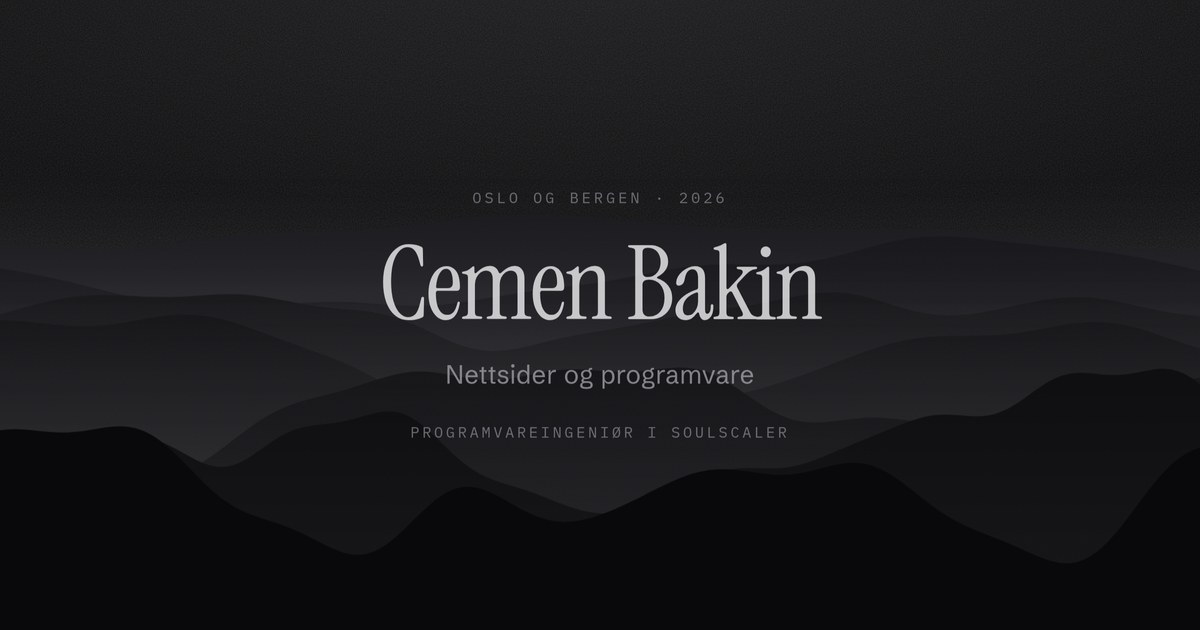
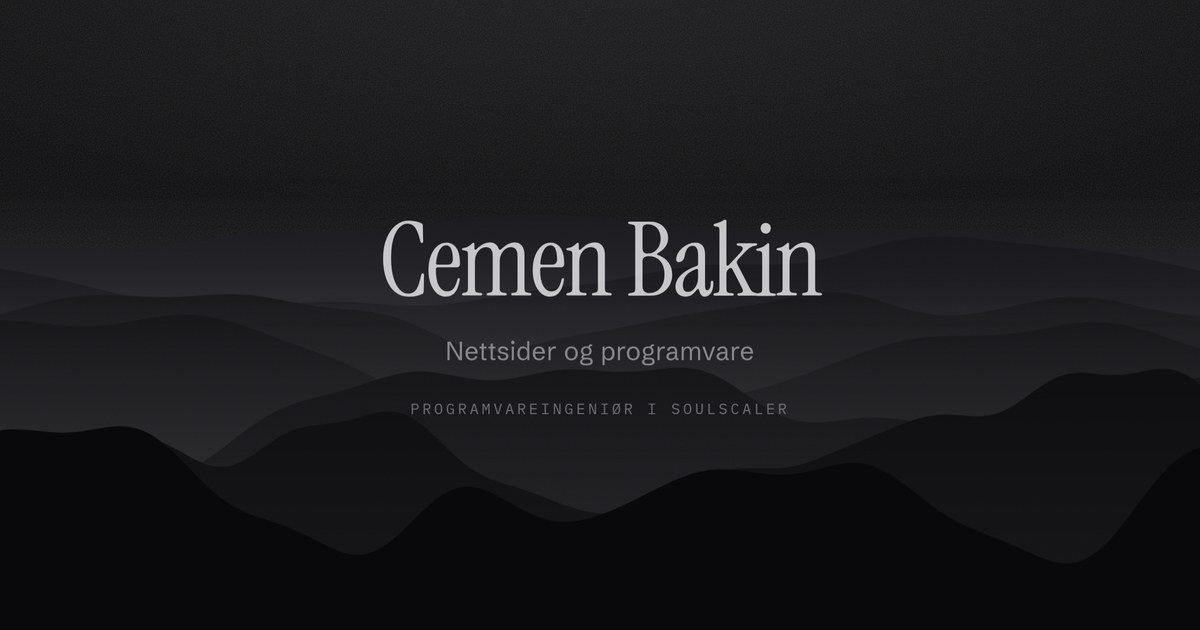
Drop the place-and-year line, and stop fading the page in
The hero's "Oslo og Bergen · 2026" is gone at the owner's request. It dated the
page, and the closing field on every page already carries Oslo & Bergen, so
nothing is lost with it. The share card is regenerated to match.

While checking the result I measured the rendered colour of the name instead of
judging it by eye, and it came back 62 where --ink is 10. The cause was not a
contrast bug: page-in fades from opacity: 0, and the screenshot caught it in
flight. But that is the very thing this stylesheet says it never does — the
panel reveal and the introduction lines animate transform only, precisely so an
animation stalled at its first frame cannot leave content present, laid out and
invisible. page-in ran on main and the whole hero, the largest elements on the
site, and was the one place that broke the rule. It is transform-only now, and
the name measures 9 from the first frame.

The 404 borrowed .affil for its explanation, which sets a two-line sentence in
mono capitals meant for a short credential. It is prose now, and ends in a full
stop.

Assets go to ?v=7.

Claude-Session: https://claude.ai/code/session_01LBvnnooDQnw55ZL5n6kTya

diff --git a/index.html b/index.html
@@ -22,7 +22,7 @@
 <link rel="preconnect" href="https://fonts.googleapis.com">
 <link rel="preconnect" href="https://fonts.gstatic.com" crossorigin>
 <link rel="stylesheet" href="https://fonts.googleapis.com/css2?family=Instrument+Serif:ital@0;1&family=Schibsted+Grotesk:wght@400;500;600;700&family=IBM+Plex+Mono:wght@400;500&display=swap">
-<link rel="stylesheet" href="styles.css?v=6">
+<link rel="stylesheet" href="styles.css?v=7">
 <style>@view-transition { navigation: auto; }</style>
 </head>
 <body>
@@ -55,15 +55,15 @@
   </div>
 </header>
 
-<!-- The opening is a field, not a card: near-black, a single serif line, and
-     the quiet credential row along the bottom. Nothing here is a control
-     except the cue, and nothing moves. -->
+<!-- The opening is a field, not a card: near-black, the name, and the two
+     lines that say what he does and who for. The place-and-year line that used
+     to sit above the name is gone — it dated the page, and the closing field
+     already carries "Oslo & Bergen". Nothing here is a control except the cue. -->
 <section class="hero" id="top">
   <!-- Seven ridges, because Bergen is the city between the seven mountains.
        Drawn in canvas rather than photographed: nothing here is stock. -->
   <canvas class="ridge" aria-hidden="true"></canvas>
   <div class="hero-in">
-    <p class="eyebrow"><span lang="en">Oslo &amp; Bergen · 2026</span><span lang="nb">Oslo og Bergen · 2026</span></p>
     <h1>Cemen&nbsp;Bakin</h1>
     <p class="role" lang="en">Websites &amp; software</p>
     <p class="role" lang="nb">Nettsider og programvare</p>
@@ -175,7 +175,7 @@
 
 </div><!-- /.sheet -->
 
-<script src="hero.js?v=6" defer></script>
-<script src="main.js?v=6" defer></script>
+<script src="hero.js?v=7" defer></script>
+<script src="main.js?v=7" defer></script>
 </body>
 </html>

diff --git a/styles.css b/styles.css
@@ -354,6 +354,16 @@ h1 {
 .affil a:hover { color: var(--ink); border-bottom-color: var(--ink-3); }
 @media (prefers-reduced-motion: reduce) { .affil a { transition: none; } }
 
+/* The 404 borrows .affil for its explanation, but that line is a sentence, not
+   a credential: mono caps that read well as "PROGRAMVAREINGENIØR I SOULSCALER"
+   turn a two-line sentence into work. Same size and weight in the page, set as
+   prose. */
+.affil.plain {
+  font: 400 .95rem/1.55 var(--sans);
+  letter-spacing: 0;
+  text-transform: none;
+}
+
 /* Nothing but the cue lives down here now, so it sits on the centre line
    under the name rather than off in a corner on its own. */
 .hero-foot {
@@ -383,8 +393,14 @@ h1 {
    everywhere else. No fill mode: if the animation never runs, the content is
    simply there — the same rule the panel reveal learned the hard way. */
 
+/* Transform only, never opacity — the same rule the panel reveal and the
+   introduction lines already keep, and this was the one place that broke it.
+   It ran on `main` and the whole hero, so a first frame that stalls would have
+   left the entire page present, laid out, and invisible, with no error
+   anywhere. That is the bug this rule exists because of; it had simply been
+   applied everywhere except the largest element on the site. */
 @keyframes page-in {
-  from { opacity: 0; transform: translateY(10px); }
+  from { transform: translateY(10px); }
 }
 main, .hero-in, .hero-foot {
   animation: page-in .55s cubic-bezier(.22, .61, .36, 1);

diff --git a/404.html b/404.html
@@ -11,7 +11,7 @@
 <link rel="preconnect" href="https://fonts.googleapis.com">
 <link rel="preconnect" href="https://fonts.gstatic.com" crossorigin>
 <link rel="stylesheet" href="https://fonts.googleapis.com/css2?family=Instrument+Serif:ital@0;1&family=Schibsted+Grotesk:wght@400;500;600;700&family=IBM+Plex+Mono:wght@400;500&display=swap">
-<link rel="stylesheet" href="/styles.css?v=6">
+<link rel="stylesheet" href="/styles.css?v=7">
 <style>@view-transition { navigation: auto; }</style>
 </head>
 <body>
@@ -58,8 +58,8 @@
     <h1>404</h1>
     <p class="role" lang="en">This page does not exist.</p>
     <p class="role" lang="nb">Denne siden finnes ikke.</p>
-    <p class="affil" lang="en">The address may be mistyped, or the page may have moved</p>
-    <p class="affil" lang="nb">Adressen kan være feilskrevet, eller siden kan ha flyttet</p>
+    <p class="affil plain" lang="en">The address may be mistyped, or the page may have moved.</p>
+    <p class="affil plain" lang="nb">Adressen kan være feilskrevet, eller siden kan ha flyttet.</p>
   </div>
 
   <div class="hero-foot">
@@ -76,7 +76,7 @@
 </section>
 </main>
 
-<script src="/hero.js?v=6" defer></script>
-<script src="/main.js?v=6" defer></script>
+<script src="/hero.js?v=7" defer></script>
+<script src="/main.js?v=7" defer></script>
 </body>
 </html>

diff --git a/nettsider.html b/nettsider.html
@@ -22,7 +22,7 @@
 <link rel="preconnect" href="https://fonts.googleapis.com">
 <link rel="preconnect" href="https://fonts.gstatic.com" crossorigin>
 <link rel="stylesheet" href="https://fonts.googleapis.com/css2?family=Instrument+Serif:ital@0;1&family=Schibsted+Grotesk:wght@400;500;600;700&family=IBM+Plex+Mono:wght@400;500&display=swap">
-<link rel="stylesheet" href="styles.css?v=6">
+<link rel="stylesheet" href="styles.css?v=7">
 <style>@view-transition { navigation: auto; }</style>
 </head>
 <body>
@@ -320,7 +320,7 @@
 
 </div><!-- /.sheet -->
 
-<script src="hero.js?v=6" defer></script>
-<script src="main.js?v=6" defer></script>
+<script src="hero.js?v=7" defer></script>
+<script src="main.js?v=7" defer></script>
 </body>
 </html>

diff --git a/programvare.html b/programvare.html
@@ -22,7 +22,7 @@
 <link rel="preconnect" href="https://fonts.googleapis.com">
 <link rel="preconnect" href="https://fonts.gstatic.com" crossorigin>
 <link rel="stylesheet" href="https://fonts.googleapis.com/css2?family=Instrument+Serif:ital@0;1&family=Schibsted+Grotesk:wght@400;500;600;700&family=IBM+Plex+Mono:wght@400;500&display=swap">
-<link rel="stylesheet" href="styles.css?v=6">
+<link rel="stylesheet" href="styles.css?v=7">
 <style>@view-transition { navigation: auto; }</style>
 </head>
 <body>
@@ -591,7 +591,7 @@
 
 </div><!-- /.sheet -->
 
-<script src="hero.js?v=6" defer></script>
-<script src="main.js?v=6" defer></script>
+<script src="hero.js?v=7" defer></script>
+<script src="main.js?v=7" defer></script>
 </body>
 </html>

diff --git a/README.md b/README.md
@@ -240,6 +240,12 @@ to exactly its own padding), and the reveal animates `transform` only, never
 `opacity`. An animation that stalls at its first frame would otherwise leave a
 panel present, at full height, and invisible — with no error anywhere.
 
+`page-in` — the arrival animation on `main`, `.hero-in` and `.hero-foot` — broke
+that rule until 2026-09-09: it faded from `opacity: 0`, on the largest elements
+on the site. It was caught by measuring the rendered colour of the name in a
+screenshot (62 where `--ink` is 10) rather than by looking at it, which is worth
+remembering: a fade mid-flight and a contrast bug are indistinguishable by eye.
+
 **Controls that need the script stay hidden until it runs.** `.track-nav` is
 `display: none` by default and only shown under `[data-enhanced]`. Without
 `main.js` the counter would read "1 / 1" (its markup placeholder) beside two
